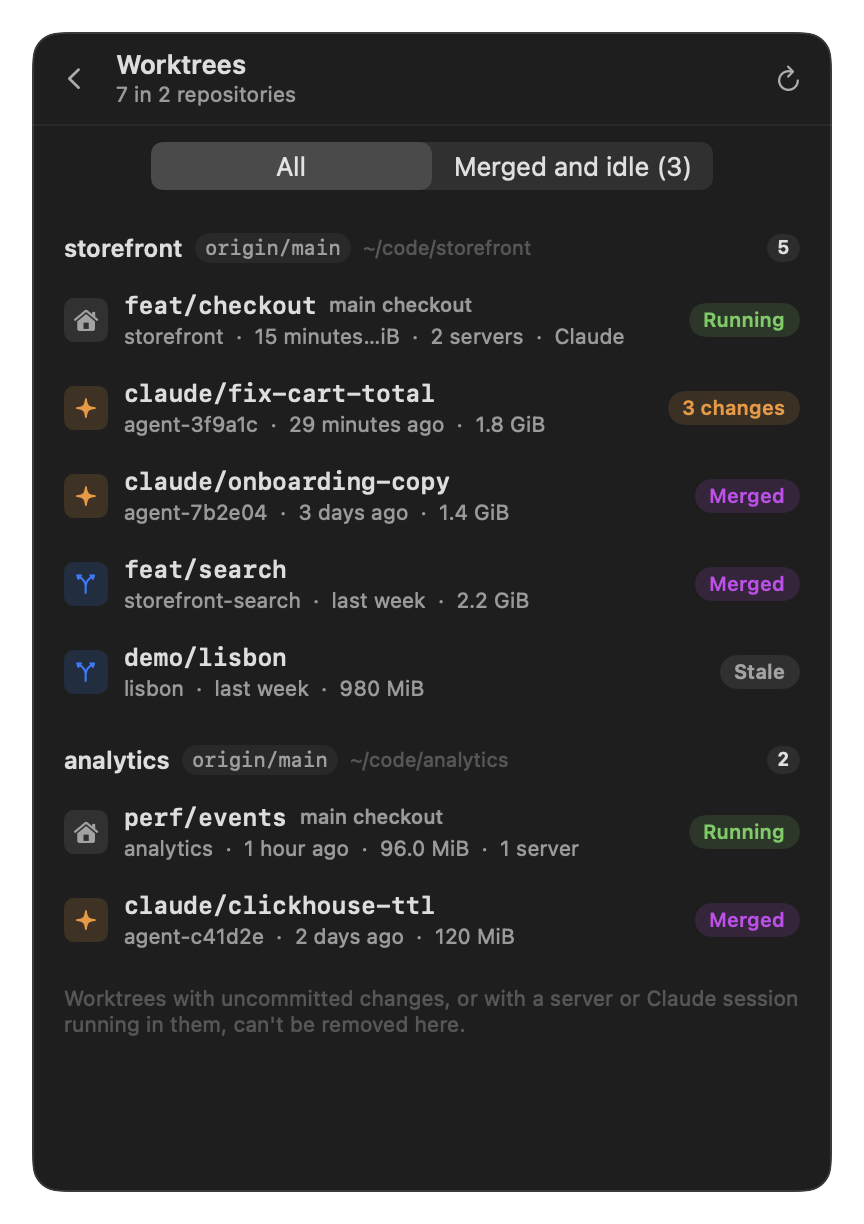
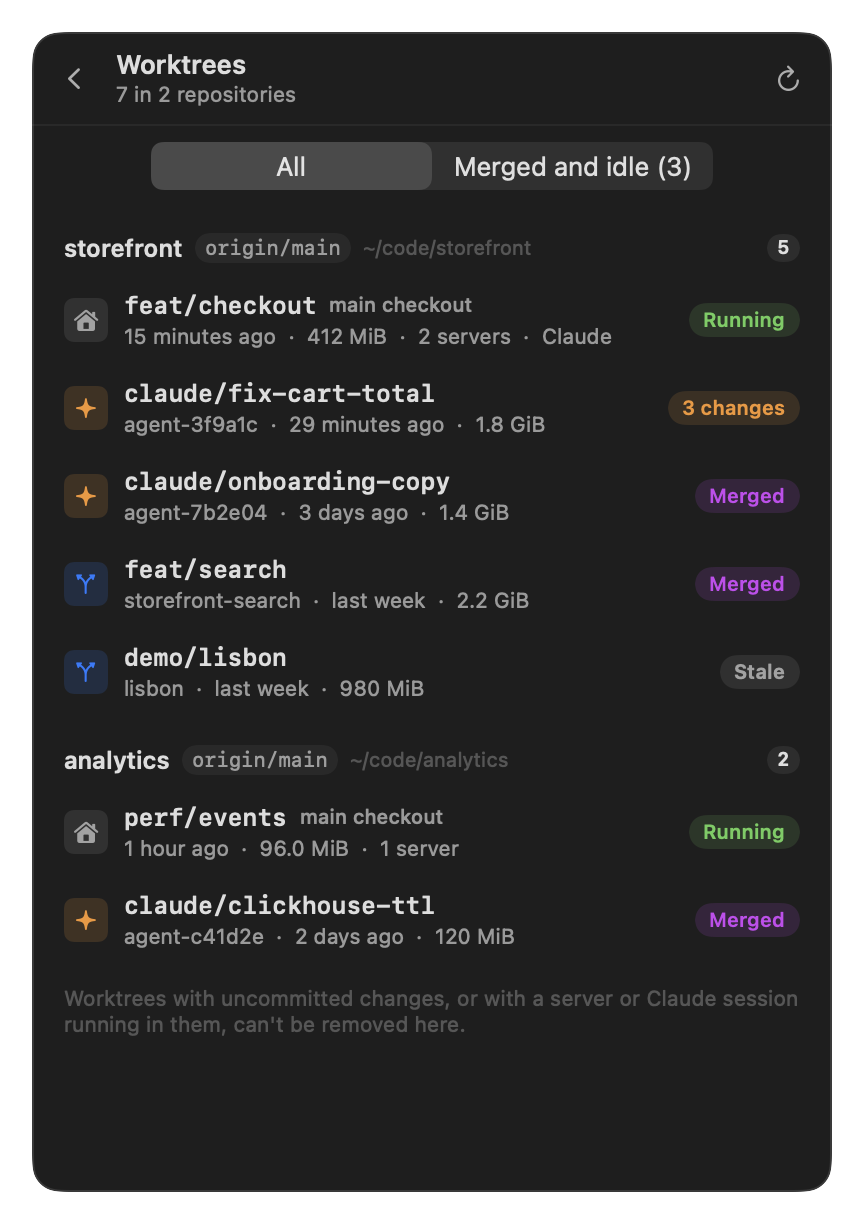
Leave the folder off the main checkout's row, the repository header shows it

diff --git a/macos/Sources/DevDashBar/Views/WorktreesView.swift b/macos/Sources/DevDashBar/Views/WorktreesView.swift
@@ -190,7 +190,8 @@ private struct WorktreeRow: View {
     }
 
     private var subtitle: String {
-        var parts = [worktree.folder]
+        // The repository header already shows the main checkout's folder.
+        var parts = worktree.isMain ? [] : [worktree.folder]
         parts.append(worktree.lastActivity.formatted(.relative(presentation: .named)))
         if let size = store.worktreeSizes[worktree.path] { parts.append(ByteFormat.string(size)) }
         let activity = store.activity(in: worktree)
